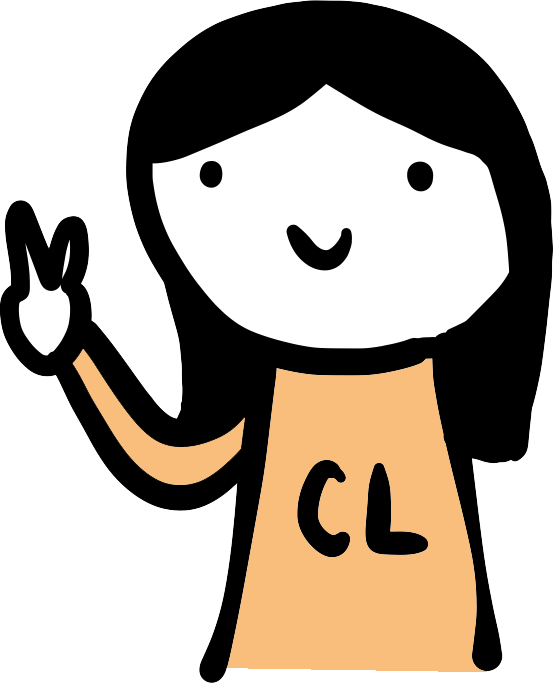
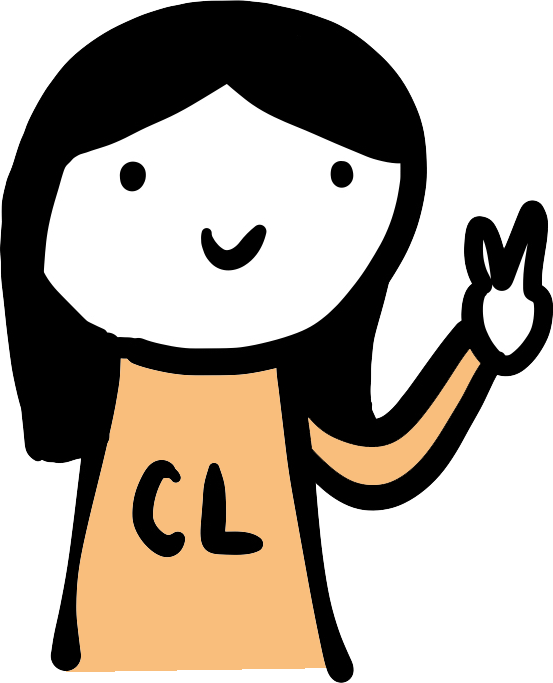
add cxlu profile

diff --git a/main/templates/cxlu.html b/main/templates/cxlu.html
@@ -1,14 +1,24 @@
-{% extends 'base.html' %}
-{% load static %}
-
-{% block title %}
-cxlu | crumbo
-{% endblock %}
-
+{% extends 'base.html' %} {% load static %} 
+{% block title %} cxlu | crumbo {%endblock %} 
 {% block styles %}
-{% endblock %}
+<link rel="stylesheet" href="{% static 'css/profile.css' %}" />
+<link ref="stylesheet" href="{% static 'css/cxlu.css' %}" />
+{% endblock %} 
 
 {% block body %}
-<a href="/"><button>&larr; back home</button></a>
-<h1>cxlu's page :^)</h1>
+<div class="profile-container">
+  <div class="profile-inner-container">
+    <div>
+      <a href="/"><button>&larr; back home</button></a>
+    </div>
+
+    <div class="profile-left">
+      <img src="../static/img/cxlu-transparent-color.png" />
+    </div>
+    <div class="profile-right">
+      <h1>it me,,,</h1>
+      <p>our profile pages are still a wip – pls come back later :^)</p>
+    </div>
+  </div>
+</div>
 {% endblock %}

diff --git a/main/templates/home.html b/main/templates/home.html
@@ -18,7 +18,7 @@ crumbo
             <p id="home-description"><em>our food adventures :~)</em></p>
             <a href="/explore"><button id="home-explore-button" class="float-on-hover">explore &rarr;</button></a>
             <a href="/grac"><img id="home-grac" class="float-on-hover" src="../static/img/grac-transparent-color.png"/></a>
-            <a href="/cxlu"><img id="home-cxlu" class="float-on-hover" src="../static/img/cxlu-transparent-color.png"/></a>
+            <a href="/cxlu"><img id="home-cxlu" class="float-on-hover" src="../static/img/cxlu-transparent-color-left.png"/></a>
         </div>
     </div>
 </div>

diff --git a/main/static/css/profile.css b/main/static/css/profile.css
@@ -39,5 +39,5 @@
 
 .profile-container button:hover {
   cursor: pointer;
-  transform: translate(0, -1vw);
+  transform: translate(0, -0.8vw);
 }
